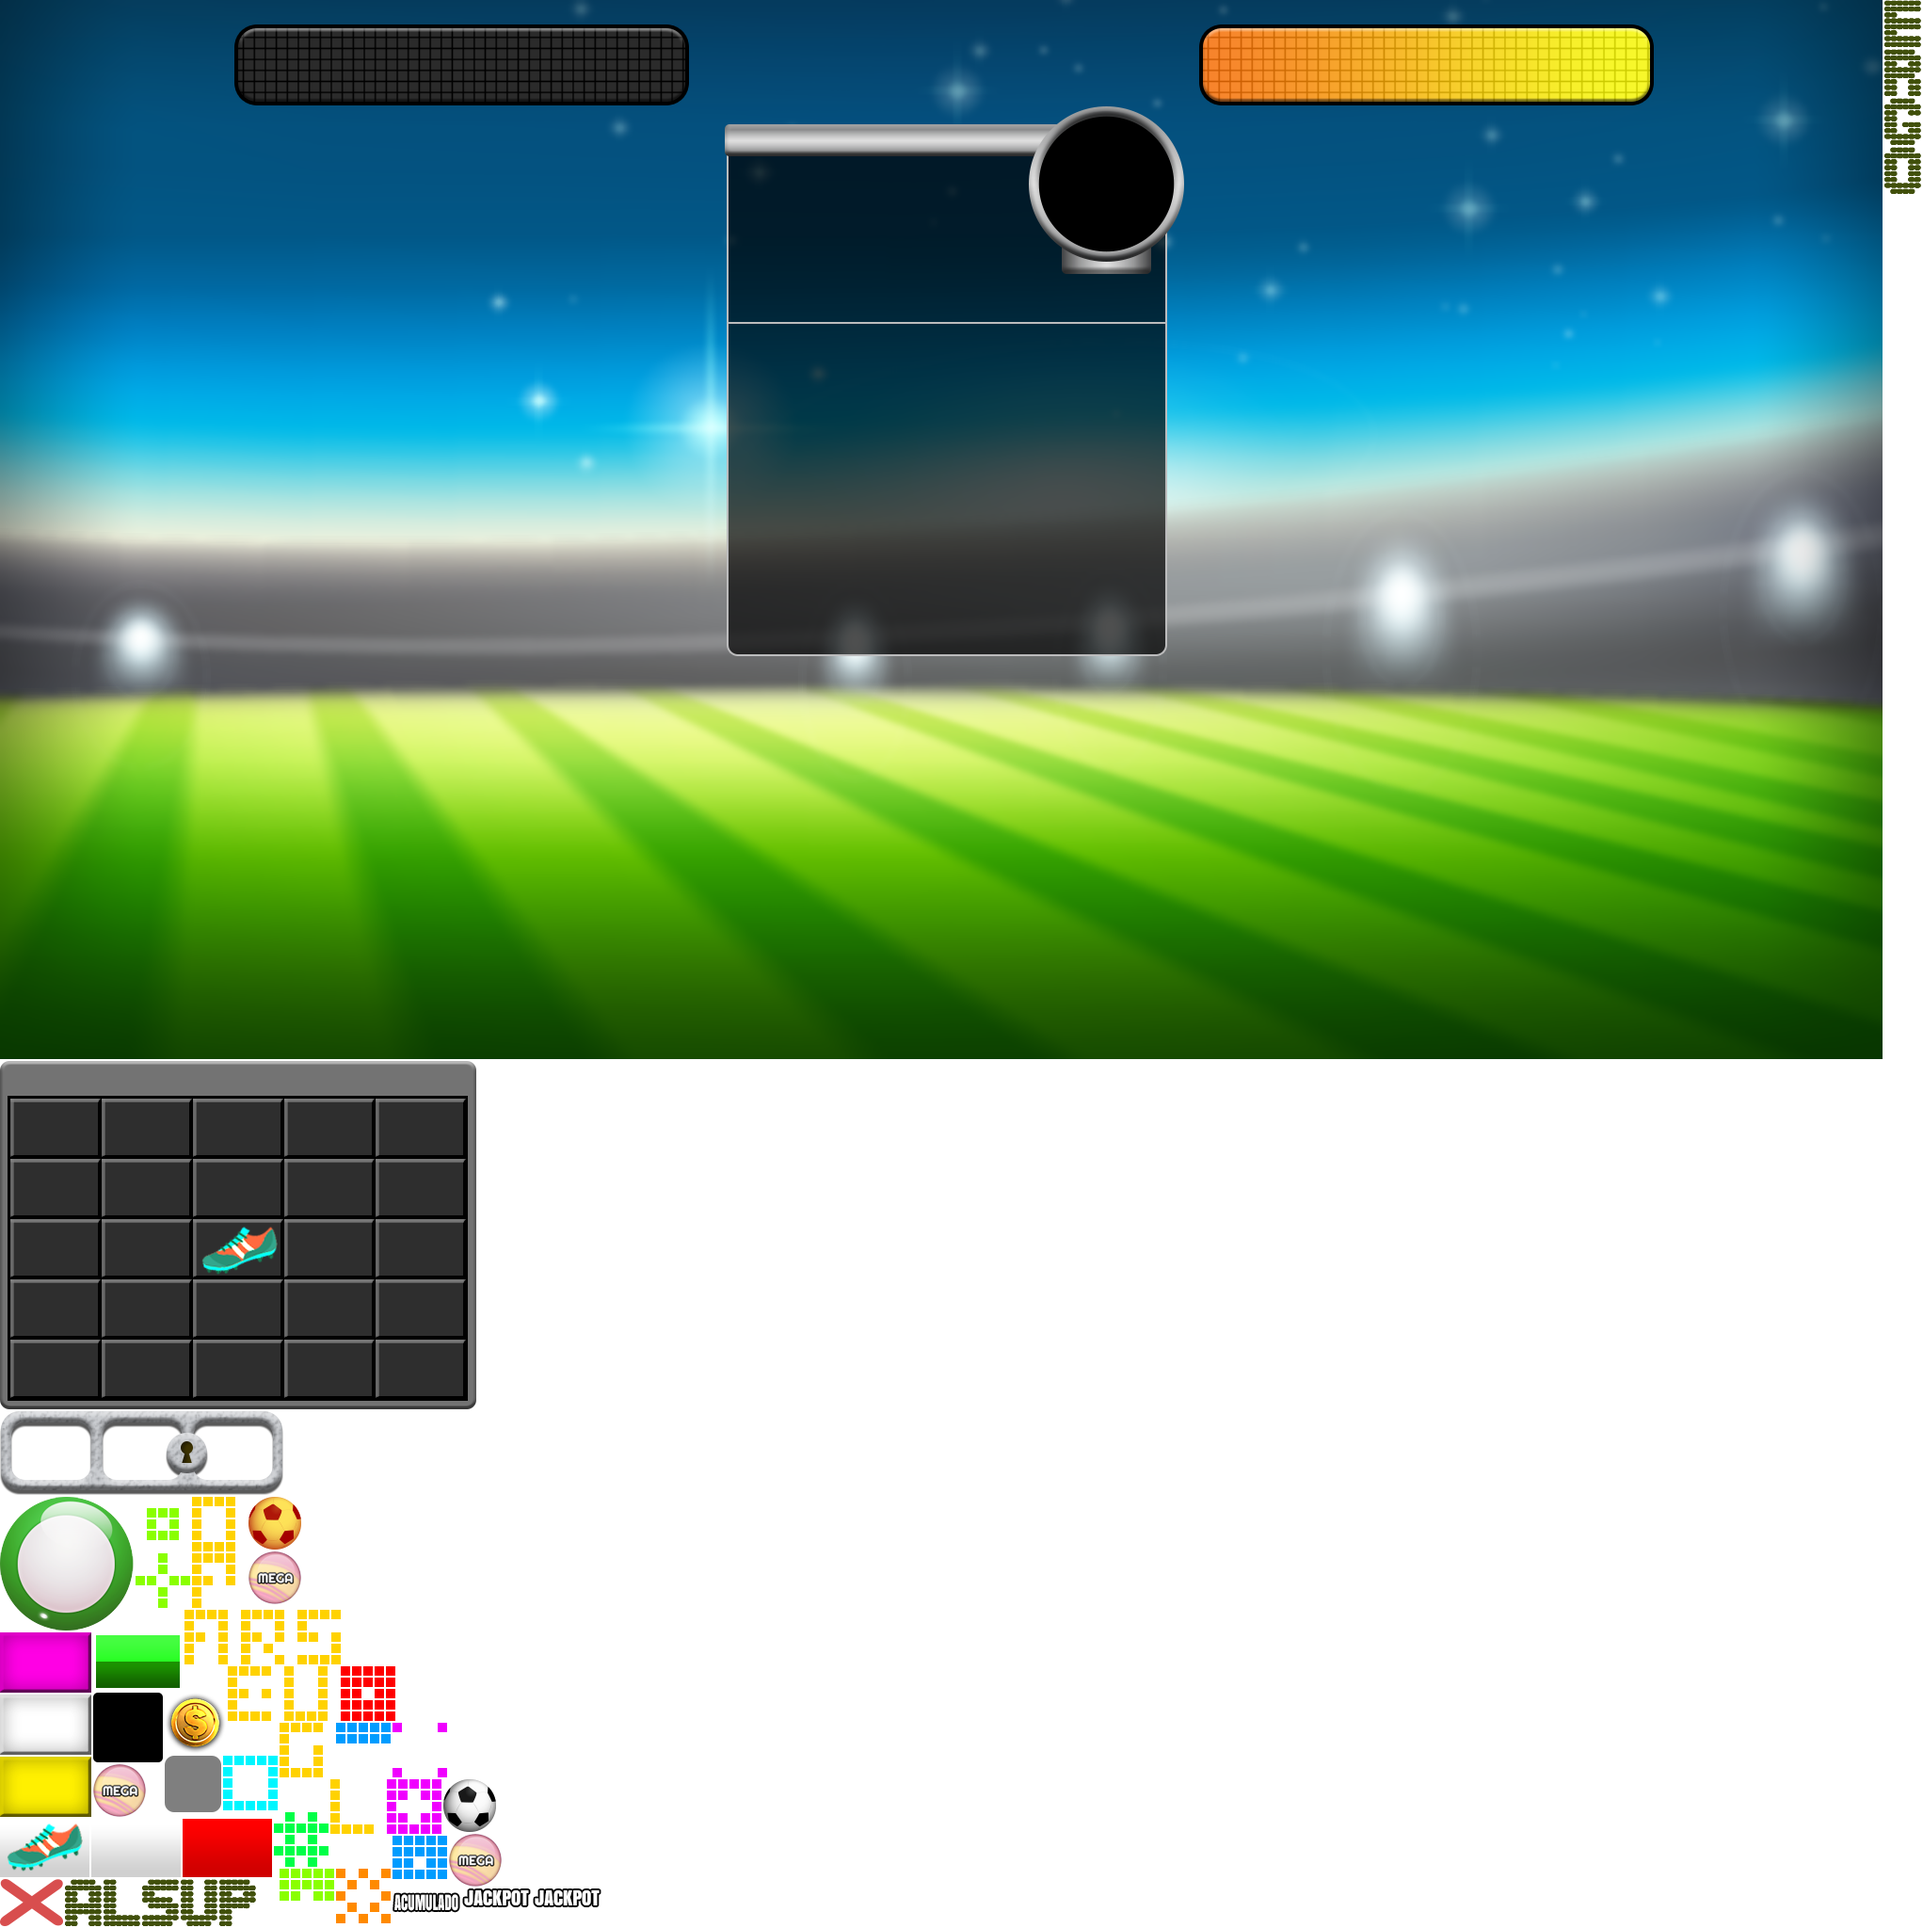
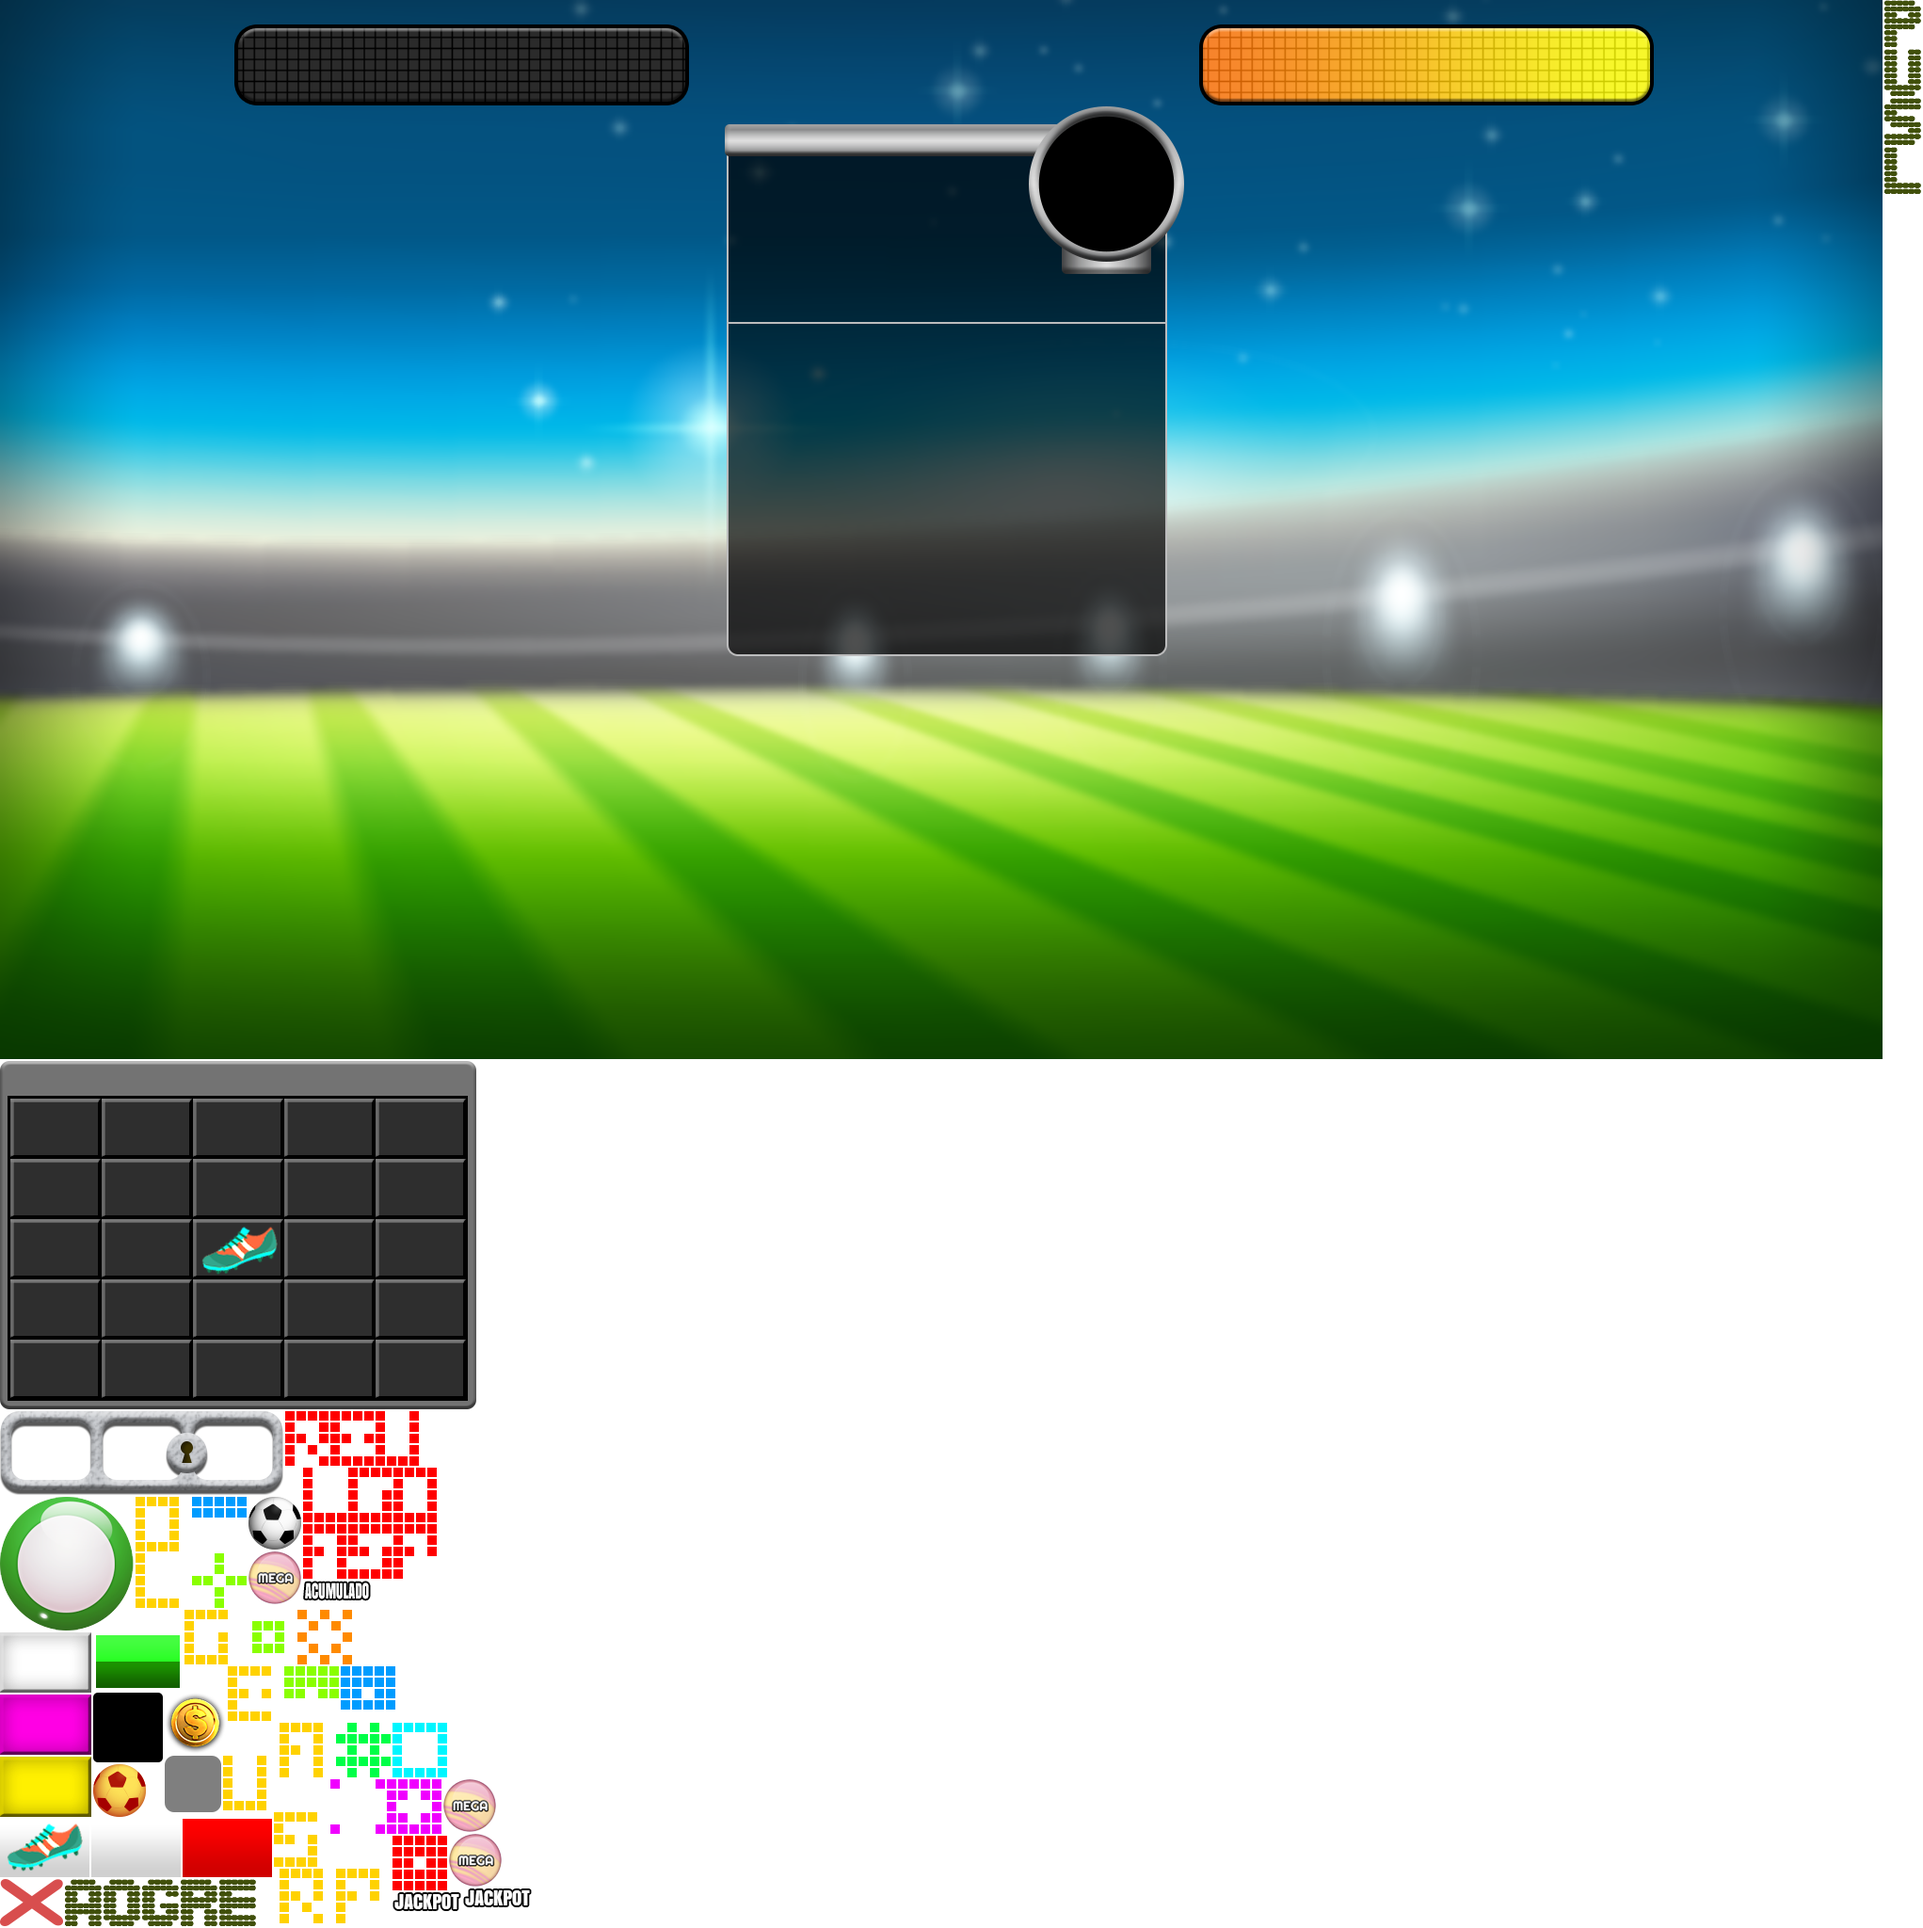
letter animation

Changed region(s): [[0.0, 0.7188, 0.3084, 1.0], [0.9868, 0.0, 1.0, 0.0938]]

diff --git a/newMoblie/src/bingoGames/v2games/superGoal/SuperGoalLetterLayer.ts b/newMoblie/src/bingoGames/v2games/superGoal/SuperGoalLetterLayer.ts
@@ -39,7 +39,7 @@ class SuperGoalLetterLayer extends egret.DisplayObjectContainer{
 		let pachinkoStr: string = SuperGoal.supergoalString;
 		this.playingLetterAnimation = true;
 
-        let letterPaytable: egret.Bitmap = Com.addBitmapAt( this, BingoMachine.getAssetStr( "champion_letter_" + ( index + 1 ) ), 874, 667 );
+        let letterPaytable: egret.Bitmap = Com.addBitmapAt( this, BingoMachine.getAssetStr( pachinkoStr[index] + "_red" ), 874, 667 );
 		letterPaytable.scaleX = letterPaytable.scaleY = 1.16;
         TweenerTool.tweenTo( letterPaytable, { x: 394, y: 0, scaleX: 1, scaleY: 1 }, 800, 0, MDS.removeSelf.bind( this, letterPaytable ) );
 
